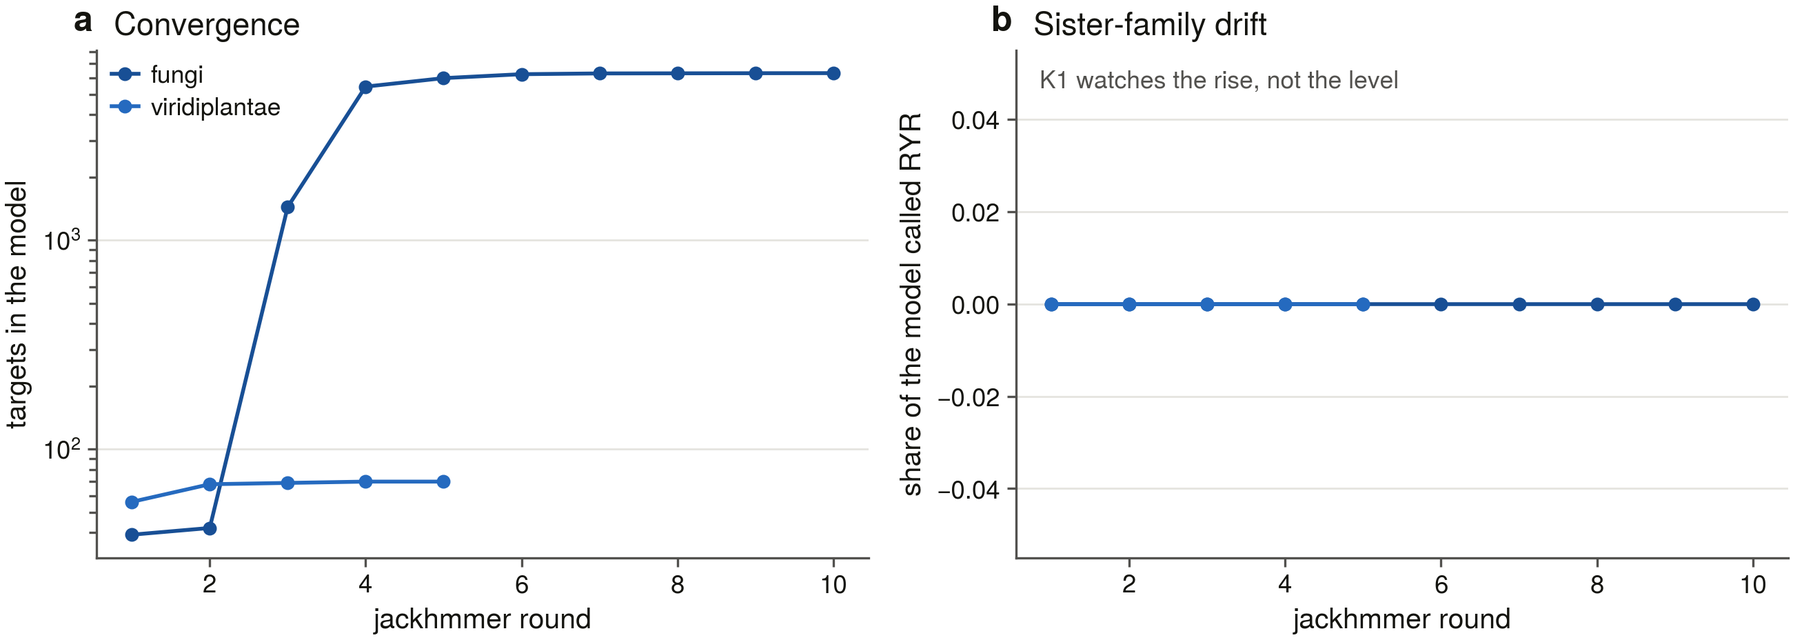
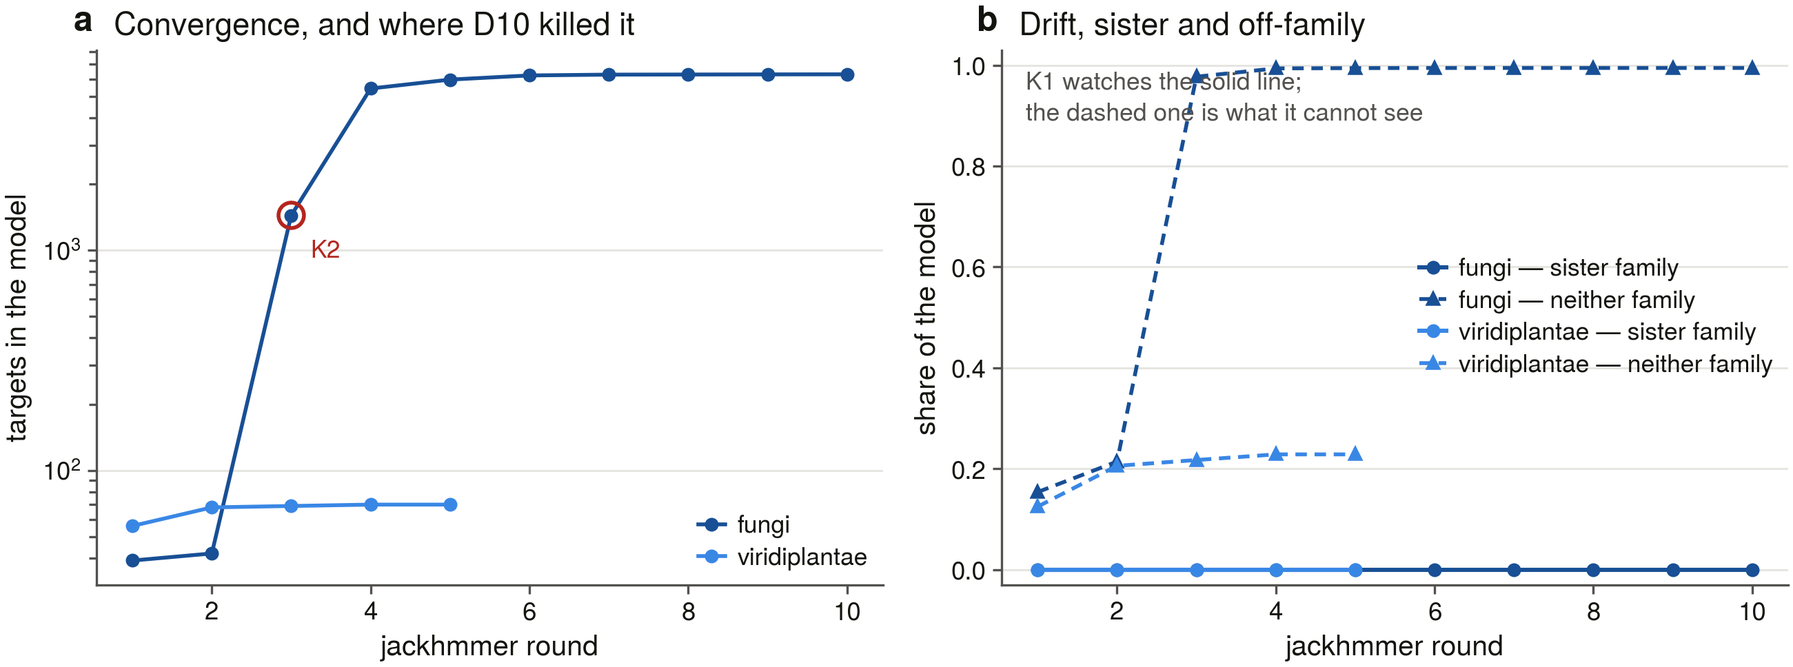
S20: write-ups, and the jackhmmer figure showing the drift K1 cannot see
FINDINGS, SESSION_LOG, README and the roadmap ledger updated with the sweep,
the controlled negatives, the 99-record chase and the fungal K2 kill.

The convergence figure now plots the off-family share beside the sister-family
share, because that contrast is the finding: the fungal model grows to 99 %
proteins of neither family while K1's trace sits at exactly zero. The kill
marker reads killed_at from the verdicts JSON — kill_rule is a run-level field
repeated on every row, so reading it per row marked round 1 for a run killed
at round 3.

Claude-Session: https://claude.ai/code/session_01A42atr4ykGLcxZTWwxVycQ

diff --git a/scripts/s20_figures.py b/scripts/s20_figures.py
@@ -37,7 +37,9 @@ matplotlib.use("Agg")
 import matplotlib.pyplot as plt  # noqa: E402
 
 import figstyle as fs  # noqa: E402
-from scripts.s20_lib import CENSUS_V5_DIR, FIG_DIR, S20_DIR, log, read_tsv  # noqa: E402
+from scripts.s20_lib import (  # noqa: E402
+    CENSUS_V5_DIR, FIG_DIR, S20_DIR, log, read_json, read_tsv,
+)
 from scripts.s20_verdicts import CONTAMINANT_PIDENT, OUTLIER_PIDENT  # noqa: E402
 from scripts.s3_assign import MIN_SCORE, REL_MARGIN  # noqa: E402
 
@@ -255,38 +257,76 @@ def plant_fungal_chase(stem: Path) -> None:
 
 # ----------------------------------------------------- 4. jackhmmer per group
 def jackhmmer_s20(stem: Path) -> None:
+    """Per-group convergence beside the drift K1 watches — and the drift it
+    does not.
+
+    Panel b plots the sister-family share (what K1 evaluates) *and* the
+    off-family share on the same axes, because that contrast is the finding.
+    S3 recorded it as D10b: off-family accretion dilutes the sister share
+    instead of raising it, so a model can grow thirty-fold into proteins of
+    neither family with K1 reading a flat zero throughout. A panel showing
+    only the sister trace would be a flat line at 0 and would look like a
+    clean run.
+    """
     rows = _rows("jackhmmer_convergence_s20.tsv")
     if not rows:
         raise SystemExit("no jackhmmer_convergence_s20.tsv — "
                          "run s20_jackhmmer.py")
     groups = sorted({r["group"] for r in rows})
-    fig, axes = plt.subplots(1, 2, figsize=(fs.W_FULL, 2.5))
-    shades = [fs.BLUES[-1], fs.BLUES[-2], fs.BLUES[-3], fs.BLUES[-4],
-              fs.BLUES[-5]]
+    verdicts = ((read_json(S20_DIR / "jackhmmer_verdicts_s20.json") or {})
+                .get("verdicts", {}))
+    fig, axes = plt.subplots(1, 2, figsize=(fs.W_FULL, 2.6))
+    shades = [fs.BLUES[-1], fs.BLUES[-3], fs.BLUES[-5], fs.MUTED]
     for i, g in enumerate(groups):
         sub = sorted((r for r in rows if r["group"] == g),
                      key=lambda r: int(r["round"]))
         xs = [int(r["round"]) for r in sub]
-        axes[0].plot(xs, [int(r["n_included"] or 0) for r in sub],
-                     marker="o", ms=2.6, lw=1.0,
-                     color=shades[i % len(shades)], label=g)
+        colour = shades[i % len(shades)]
+        n_inc = [int(r["n_included"] or 0) for r in sub]
+        axes[0].plot(xs, n_inc, marker="o", ms=2.6, lw=1.0,
+                     color=colour, label=g)
+        # Mark the round the rule actually fired on. `kill_rule` in the
+        # convergence table is a run-level field repeated on every row, so
+        # reading it per row would mark round 1 for a run killed at round 3;
+        # `killed_at` is the round, and it lives in the verdicts JSON.
+        v = verdicts.get(g, {})
+        at = v.get("killed_at")
+        if at:
+            here = [r for r in sub if int(r["round"]) == int(at)]
+            if here:
+                y = int(here[0]["n_included"] or 0)
+                axes[0].scatter([at], [y], s=44, facecolors="none",
+                                edgecolors=fs.STATUS["absent"], linewidths=1.0,
+                                zorder=5)
+                axes[0].annotate(v.get("rule", ""), (at, y),
+                                 textcoords="offset points", xytext=(5, -11),
+                                 fontsize=fs.FS_NOTE,
+                                 color=fs.STATUS["absent"])
         axes[1].plot(xs, [float(r["sister_frac"] or 0) for r in sub],
-                     marker="o", ms=2.6, lw=1.0,
-                     color=shades[i % len(shades)], label=g)
+                     marker="o", ms=2.6, lw=1.1, color=colour,
+                     label=f"{g} — sister family")
+        off = [int(r["n_offfamily"] or 0) / max(int(r["n_included"] or 1), 1)
+               for r in sub]
+        axes[1].plot(xs, off, marker="^", ms=2.6, lw=1.0, ls=(0, (3, 2)),
+                     color=colour, label=f"{g} — neither family")
+
     axes[0].set_yscale("log")
     axes[0].set_xlabel("jackhmmer round", fontsize=fs.FS_LABEL)
     axes[0].set_ylabel("targets in the model", fontsize=fs.FS_LABEL)
-    axes[0].legend(fontsize=fs.FS_NOTE, frameon=False)
+    axes[0].legend(fontsize=fs.FS_NOTE, frameon=False, loc="lower right")
     fs.despine(axes[0]); fs.hgrid(axes[0])
-    fs.panel(axes[0], "a", "Convergence")
+    fs.panel(axes[0], "a", "Convergence, and where D10 killed it")
 
+    axes[1].set_ylim(-0.03, 1.03)
     axes[1].set_xlabel("jackhmmer round", fontsize=fs.FS_LABEL)
-    axes[1].set_ylabel("share of the model called RYR", fontsize=fs.FS_LABEL)
-    axes[1].text(0.03, 0.96, "K1 watches the rise, not the level",
-                 transform=axes[1].transAxes, fontsize=fs.FS_NOTE,
-                 va="top", color=fs.MUTED)
+    axes[1].set_ylabel("share of the model", fontsize=fs.FS_LABEL)
+    axes[1].legend(fontsize=fs.FS_NOTE, frameon=False, loc="center right")
+    axes[1].text(0.03, 0.96, "K1 watches the solid line;\nthe dashed one is "
+                 "what it cannot see", transform=axes[1].transAxes,
+                 fontsize=fs.FS_NOTE, va="top", color=fs.MUTED,
+                 linespacing=1.4)
     fs.despine(axes[1]); fs.hgrid(axes[1])
-    fs.panel(axes[1], "b", "Sister-family drift")
+    fs.panel(axes[1], "b", "Drift, sister and off-family")
     fig.tight_layout()
     fs.save(fig, stem)
     plt.close(fig)

diff --git a/PUBLICATION_ROADMAP.md b/PUBLICATION_ROADMAP.md
@@ -165,7 +165,7 @@ Full step-by-step briefs: `docs/session_briefs.md`.
 | S4 | Genome scope: declared assembly manifest (the denominator) + download tooling | S1 | completed 2026-09-04 | **309 genomes: 161 vertebrate orders ∪ 169 margin species, 552.5 Gbp (≈553 GB FASTA, ≈166 GB as zip, against 1,434 GB free).** Scope confirmed with the user: the *full* margin union, so the bird question is settled per species rather than by sample. **The margin species are derived from the committed census tables, not hand-listed** (unlike the PIEZO port) — four rules with stated thresholds in `s4_manifest_lib.derive_margins`: `zero_hit_proteome` 15, `missing_paralog` (<3 paralogs) 101, `fragment_only` (longest record < `family.MIN_LENGTH_AA` = 2,000 aa) 100, `anchor` 5; 61 genomes carry more than one reason and 11 carry three. All 169 resolved to an assembly — **no margin species is excluded for want of a genome**. **The margin is a bird problem**: 130 of 169 margin species are Aves, against 21 Actinopteri and 10 Mammalia, which is S3's annotation-depth result reappearing as a scope requirement. **D9 is live in the denominator**: 168 RefSeq / 141 GenBank, and **33 genomes carry no gene set at all**, so no annotation claim may be quoted for them. Three assemblies exceed 10 Gbp (*Protopterus annectens* 40.1, *Lissotriton helveticus* 23.2, *Bombina bombina* 10.0) and dominate both download and S5 runtime. 67 reference species have no NCBI order rank (65 percomorphs + 2 sharks) and cannot represent one; the margin rules still reach them. `fetch_genomes.py` tested end to end on 3 small genomes — md5-verified against NCBI's own `md5sum.txt`, `.done` resume, fetch → search → purge, and a failing search correctly keeping its genome. **Two bugs found by testing**: margin species were matched by a last-wins taxid lookup while order reps used the rank function, putting one species in twice under two accessions; and `--verify` skipped any checksummed file the install does not keep, so a deleted `.fna` would have passed — the kept checksums are now rewritten to exactly the installed files and a missing one is a hard failure (proved by deleting a file and watching it fail, exit 1). → `results/genome_manifest_notes.md` |
 | S5a | **Genomic sweep: bait panel, calibrated pipeline, pilot** — the instrument for S5, measured rather than ported | S4 | completed 2026-09-04 | **38 baits (30 ITPR + 8 RyR control), 121,294 residues, derived from census v3 by seven enforced rules; pipeline piloted on 6 genomes, 24 cells, 43 loci, 0 control failures.** Three calibrations that a port could not supply. **(1) miniprot's `-G`.** A too-small max-intron does not lose a gene, it *splits* one, and a split ITPR reads out of the ledger as `fragment` — so `-G` is a threshold on the call. Measured across an 11-species Ensembl panel: **no ITPR gene has an intron over the 200 kb default** (widest 152,216 bp, human ITPR1) while the RyR control exceeds it twice (RYR2 227,927 bp). The rule scales from the widest measured intron rather than from the intron-per-Gbp ratio, which is largest in the *smallest* genomes and would have asked for a 7.4 Mbp `-G` on the lungfish. **(2) The unlabelled baits were competing as a fourth paralog.** Rescue attribution ranked `vertebrate_basal` (the gar/chimaera/lamprey seeds — evidence that a region is an ITPR, not a hypothesis about *which*) against the real paralogs: in *Todus* an ITPR1 trace at a true 0.235 margin over ITPR2 was reported at 0.027. Three cells moved from `tblastn_trace_ambiguous` to `tblastn_trace` once fixed. **(3) `ATTRIBUTION_REL_MARGIN` does not transfer (D25).** The PIEZO port's 0.333 comes from a family 40–50 % identical where these are 61–68 %; at complete loci whose paralog identity the annotation independently establishes, **7 of 9 sit below it** (range 0.225–0.347, median 0.281). A complete locus is an upper bound on a rescue fragment, so under 0.333 no absence claim could ever be attributed → **0.22**, with the limitation stated. **D14 was never in doubt at genome scale: at all 43 loci only one family's baits aligned at all** — sharper than the protein level, where S1 had all six RyR decoys promoted at 45. **The RyR control paid immediately**: in *Todus mexicanus* (the `zero_hit_proteome` bird) it found one RyR locus where a bird has three, and unannotated — what is missing there is contiguity, not genes. **D4's contiguity bar, set at the median measured ITPR span (142,212 bp) rather than an invented number: 120/309 manifest genomes fail it — 66 % of birds against 11 % of fish, and 68 % of margin species against 12 % of order reps.** The margin set was chosen for what its *proteomes* lack and turns out to be very largely the same genomes whose assemblies cannot hold the gene; the two signals are confounded. **And the paralog recovered from a fragmented assembly is systematically the short one** — below the bar ITPR3 (82 kb median span) is found 2/3 while ITPR1 (186 kb) and ITPR2 (231 kb) are 0/3, so S0's 6.5× span asymmetry returns as a detection bias pointing the same way as the loss signal *(pilot of 6 — direction and mechanism, pending: S5b at 309)*. Screen validated by its own negative controls on every build. → `results/genome_ledger/report.md` |
 | S5b | **The full 309-genome sweep** → per-genome ledger (found / lost / assembly-gap) + novel gene models → census v4 | S5a | completed 2026-09-05 | **309/309 genomes swept, 0 failures, 1,236 cells, 2,144 loci; census v4 = 17,097 records.** **The RyR positive control fired in every one of the 309**, so no genome is excluded on control grounds. **D14 held absolutely: across all 2,144 loci only one family's baits aligned at all** — the ITPR and RyR panels never once contested a locus. That is a sharper separation than the protein level affords (S1 had all six RyR decoys promoted at 45 before the sister test existed) and it is a result in its own right: the family ambiguity is a property of searching protein fragments, not of the two families. **Only 4 cells are `absent`, and all four are cyclostome**: *Petromyzon marinus* and *Myxine glutinosa* each carry ITPR1 and lack ITPR2/ITPR3. Both are above the contiguity bar with a firing control, so the call survives both of D4's gates — but the panel has **no labelled ITPR2 or ITPR3 bait for cyclostomes at all** (4 of its 6 unfilled slots), so this is one findable ITPR in each, consistent with the vertebrate trio arising at 2R after the cyclostome split, and S7 is what turns it into a statement about 2R. **D4's bar is the headline caveat: 120/309 genomes cannot carry the gene on one contig — 66 % of Aves against 11 % of Actinopteri, 68 % of margin species against 12 % of order reps.** Recovery is **98–99 % above the bar and 57–70 % below it**. **S5a's span-bias hypothesis is confirmed at scale** (it wobbled 15 → 8 → 12.5 points during the sweep and settled at **13**): below the bar ITPR3 70 %, ITPR1 61 %, ITPR2 57 %, and ITPR3 is the shortest gene — so the detection bias runs the same direction as the loss signal the margin species were chosen for. **The attribution margin is now validated on the evidence it acts on**: 53 rescue fragments whose paralog an assembly's own annotation names agree with the attribution **53/53**, over margins 0.227–0.445. **0 fall below the 0.22 in force; 31 of 53 would have fallen below the inherited 0.333** and been reported ambiguous. S5a's recalibration was right and the floor sits 0.007 below the observed minimum. **Annotation quality differs by paralog, and the control matters**: uncontrolled the gap looked like ITPR3 54 % vs ITPR2 14 %, which was assembly quality; holding contiguity constant across 487 loci it is **ITPR3 88 % correctly named vs ITPR1 65 %** — a 23-point gap between genes of near-identical protein length in the same genomes. **Census v4 adds 1,058 gene models from 224 genomes**: **318 ITPR models exist only as DNA** and **167 more sit inside an annotated gene carrying no family name**, unreachable by any name-based search. 3 loci are claimed by a cell other than the one their annotation names (1 with a coherent sibling locus) — supplied to S18, not adjudicated. **Two instrument fixes found by the run.** `MIN_LOCUS_IDENTITY` (0.40) — in the two >20 Gbp genomes a 2 Mbp `-G` chained shared-module hits at 23–34 % identity into apparent loci, inflating *Lissotriton* ITPR3 to 10 loci; measured, the 571 annotation-confirmed loci have a **minimum identity of 0.759** and the junk sits below 0.35, so any floor in 0.35–0.50 drops the same 22 and zero real loci. Status was never wrong (the best locus always won) but copy number was. And **miniprot output is now written atomically**: the driver reuses any non-empty GFF, so an interrupted run left a truncated file the next run accepted as complete — undetectable afterwards. Audited: 0 genomes affected. **The budget was wrong in S5a and is corrected**: the sweep is download-bound (~5.5 MB/s aggregate, not scaling with shard count), 164 GB over ~19 h wall against ~2.5 h of compute; S5a projected 3.4 h from compute alone. miniprot is *faster* than budgeted (15 s/Gbp, not 36). Both giants completed on the chunked path (25 and 14 chunks, 1.8 h and 2.5 h). → `results/genome_ledger/report.md` |
-| S20 | **Non-vertebrate sweep** — the family's true range across eukaryotic reference proteomes, and whether the land-plant / dikarya absence is a genome fact or a database fact | S3 | in_progress | **6,928 reference proteomes, 63,144,898 proteins, 24.93 G residues swept with S3's own two profiles — 662 carry an ITPR call.** The four eukaryote groups partition Eukaryota with S3's `vertebrata`, so the two sweeps' denominators add; archaea taken whole (634), bacteria genus-stratified (3,537 of 17,981) under a rule chosen to be generous to the hypothesis it tests — one proteome per genus, the *largest*, because a bigger proteome is a more sensitive place to find a homolog. 23 listed proteomes are unpublished in the release FTP tree and are recorded as exclusions rather than aborting the fetch. **One search, two sensitivities**: every `hmmsearch` ran at `-E 10` and the primary E ≤ 1e-5 call is a filter on the same domtblout, so the relaxed set is a superset of the strict one from the same search rather than a second experiment. **Both of S2's headline absences are confirmed with the seeding filter removed: Streptophyta 0/384 (16.3 M proteins) against 15/48 Chlorophyta, and Dikarya 0/1,353 against 28/1,527 fungal proteomes.** Archaea 0/634, bacteria 0/3,537. **But the fungal losses are patchy, not basal** — Glomeromycota 0/27, Mortierellomycota 0/18, Kickxellomycota 0/35 and Microsporidia 0/29 are empty too, so this is repeated independent loss rather than one event. **Every negative carries a positive control inside the same search** (brief step 5): at E ≤ 10 with the four family Pfam models, PF08709 — the IP₃-binding core that names the family — returns **0** substantial matches in land plants against **26** in Chlorophyta, and **0** in Dikarya against **16** in Mucoromycota, while PF02815 (MIR, which every eukaryote carries on other proteins) returns **633** and **4,376** in those same genomes. The instrument demonstrably works there and finds everything except the receptor. **All 99 plant and fungal ITPR records were chased individually** (brief step 3), pooled from both instruments so the UniProtKB entries outside reference proteomes are not quietly dropped: **47 `real_gene`, 52 `fragment`, 0 contaminants, 0 without genome backing**. The contamination test had full power — every record has a cross-kingdom blastp hit, at **19.9–45.8 % identity, median 24.1 %**, nowhere near the 95 % call. **D14 outside the vertebrates: 0 of 704** targets scored by both profiles above the bit floor fall inside the no-call band. **And a trap caught before it became a result**: the sweep reports 142 RYR calls in fungi, algae and protists, all 500–2,000 aa proteins spanning **4–9 %** of a 4,930-state model — read as gene counts they would invent ryanodine receptors across half the eukaryotic tree, so every call is now reported with its model coverage (63 % of ITPR calls are architecture-level against 1 % of RYR ones). The two that *are* architecture-level are genuine and matter: *Salpingoeca rosetta* (choanoflagellate, 5,340 aa, not a seed) and *Capsaspora owczarzaki* (filasterean, 6,625 aa, a `ryr.hmm` seed and flagged circular) carry both families at full length, so the ITPR/RyR duplication predates Metazoa. **jackhmmer (brief step 4), viridiplantae: converged in 5 rounds, D10 clean, zero sister content in every round — and all 70 targets in the converged model are Chlorophyta, including all 6 that only iteration found**, so the land-plant absence is not a sensitivity artefact. **Census v5: 17,882 records** (+785 from this sweep), 8,809 ITPR across 1,402 taxa, 0 conflicts, lineage on every row including S5b's 488 genomic models joined to S4's manifest. **Three silent bugs fixed**: the presence table was overwritten with a fraction of its own denominator by per-group runs; hits were attributed by taxid where 48 taxids carry two reference proteomes each (now measured by a header pass over each proteome file); and **UniProt's `tax_id:` search is hierarchical**, so a 100-term batch matched more than 100 records, the page capped, and requested taxids came back as blank rows — *Arabidopsis* and *Chlamydomonas* among them — now the exact `taxonIds/` endpoint with the batch below its measured 25-row page cap. → `results/s20_sweep/report.md` |
+| S20 | **Non-vertebrate sweep** — the family's true range across eukaryotic reference proteomes, and whether the land-plant / dikarya absence is a genome fact or a database fact | S3 | in_progress | **6,928 reference proteomes, 63,144,898 proteins, 24.93 G residues swept with S3's own two profiles — 662 carry an ITPR call.** The four eukaryote groups partition Eukaryota with S3's `vertebrata`, so the two sweeps' denominators add; archaea taken whole (634), bacteria genus-stratified (3,537 of 17,981) under a rule chosen to be generous to the hypothesis it tests — one proteome per genus, the *largest*, because a bigger proteome is a more sensitive place to find a homolog. 23 listed proteomes are unpublished in the release FTP tree and are recorded as exclusions rather than aborting the fetch. **One search, two sensitivities**: every `hmmsearch` ran at `-E 10` and the primary E ≤ 1e-5 call is a filter on the same domtblout, so the relaxed set is a superset of the strict one from the same search rather than a second experiment. **Both of S2's headline absences are confirmed with the seeding filter removed: Streptophyta 0/384 (16.3 M proteins) against 15/48 Chlorophyta, and Dikarya 0/1,353 against 28/1,527 fungal proteomes.** Archaea 0/634, bacteria 0/3,537. **But the fungal losses are patchy, not basal** — Glomeromycota 0/27, Mortierellomycota 0/18, Kickxellomycota 0/35 and Microsporidia 0/29 are empty too, so this is repeated independent loss rather than one event. **Every negative carries a positive control inside the same search** (brief step 5): at E ≤ 10 with the four family Pfam models, PF08709 — the IP₃-binding core that names the family — returns **0** substantial matches in land plants against **26** in Chlorophyta, and **0** in Dikarya against **16** in Mucoromycota, while PF02815 (MIR, which every eukaryote carries on other proteins) returns **633** and **4,376** in those same genomes. The instrument demonstrably works there and finds everything except the receptor. **All 99 plant and fungal ITPR records were chased individually** (brief step 3), pooled from both instruments so the UniProtKB entries outside reference proteomes are not quietly dropped: **47 `real_gene`, 52 `fragment`, 0 contaminants, 0 without genome backing**. The contamination test had full power — every record has a cross-kingdom blastp hit, at **19.9–45.8 % identity, median 24.1 %**, nowhere near the 95 % call. **D14 outside the vertebrates: 0 of 704** targets scored by both profiles above the bit floor fall inside the no-call band. **And a trap caught before it became a result**: the sweep reports 142 RYR calls in fungi, algae and protists, all 500–2,000 aa proteins spanning **4–9 %** of a 4,930-state model — read as gene counts they would invent ryanodine receptors across half the eukaryotic tree, so every call is now reported with its model coverage (63 % of ITPR calls are architecture-level against 1 % of RYR ones). The two that *are* architecture-level are genuine and matter: *Salpingoeca rosetta* (choanoflagellate, 5,340 aa, not a seed) and *Capsaspora owczarzaki* (filasterean, 6,625 aa, a `ryr.hmm` seed and flagged circular) carry both families at full length, so the ITPR/RyR duplication predates Metazoa. **jackhmmer (brief step 4), viridiplantae: converged in 5 rounds, D10 clean, zero sister content in every round — and all 70 targets in the converged model are Chlorophyta, including all 6 that only iteration found**, so the land-plant absence is not a sensitivity artefact. **Fungi ran the ceiling and K2 fired at round 3**: the included set grew **34.3×** (42 → 1,442, reaching 6,302 by round 10) while the family content went 33 → 35 — the growth is entirely off-family, so **K1 read 0.000 in every round**. That is S3's **D10b** in a new setting, caught this time by K2 rather than by the round ceiling. The accepted model (rounds 1–2) reaches Ascomycota exactly twice and both records are dolichyl-phosphate-mannose mannosyltransferases — the MIR-domain sharer S1's decoy panel was built around, not a receptor, so the Dikarya absence survives its only loophole. Iteration-only targets are **named** in `jackhmmer_iteration_only_s20.tsv` rather than counted, and the report calls them known decoys only when their own protein names say so. **Census v5: 17,882 records** (+785 from this sweep), 8,809 ITPR across 1,402 taxa, 0 conflicts, lineage on every row including S5b's 488 genomic models joined to S4's manifest. **Three silent bugs fixed**: the presence table was overwritten with a fraction of its own denominator by per-group runs; hits were attributed by taxid where 48 taxids carry two reference proteomes each (now measured by a header pass over each proteome file); and **UniProt's `tax_id:` search is hierarchical**, so a 100-term batch matched more than 100 records, the page capped, and requested taxids came back as blank rows — *Arabidopsis* and *Chlamydomonas* among them — now the exact `taxonIds/` endpoint with the batch below its measured 25-row page cap. → `results/s20_sweep/report.md` |
 | S23 | **Targeted invertebrate + protist + plant/fungal genome sweep** (triggered by S20): the negative claims at genome level, and copy number outside vertebrates | S20 | pending | |
 | S6 | Alignment upgrade: MAFFT L-INS-i + trimAl on census representatives per clade × kingdom, RyR outgroup included | S2, S3, S5b, S20 | pending | |
 | S7 | ML phylogeny: IQ-TREE 2 + ModelFinder + 1000 UFBoot, rooted on RyR; resolve which two of ITPR1/2/3 are sisters (AU test on the three rooted topologies) | S6, S23 | pending | |

diff --git a/FINDINGS.md b/FINDINGS.md
@@ -675,6 +675,29 @@ Either that lineage has genuinely expanded the family, or its assembly is
 duplicated. A proteome cannot tell those apart *(pending: S23, the
 assembly-level search.)*
 
+**Searching harder does not find them either.** For each group the search was
+run again the hard way — starting from a single receptor native to that group
+and letting the model rebuild itself from whatever it found, round after round,
+until it stopped changing. In the green algae it settled after five rounds on
+seventy proteins, **every one of them a green alga**, including the six that
+only this deeper search could reach. In the fungi it reached the yeasts and
+moulds exactly twice in ten rounds, and both times what it reached was a
+mannosyltransferase — a protein that shares one module with the receptor and
+was already in this project's list of known look-alikes. So the absences are
+not an artefact of not looking hard enough. They are absences.
+
+**And the deeper search failed in an instructive way.** The fungal run did not
+settle at all: at round three the model grew thirty-four-fold, from 42 proteins
+to 1,442, and by round ten it rested on 6,302 — while the number of actual
+receptors in it went from 33 to 35. It had stopped being a model of the family
+and become a model of fungal proteins in general. The rule that watches for
+this project's expected failure — drifting into the sister family — saw
+nothing at all, because the flood was of proteins belonging to *neither*
+family, which dilutes the sister share rather than raising it. A second rule,
+watching for explosive growth, caught it. That is the same lesson S3 recorded
+from a different direction, and it is worth stating plainly: a model that has
+gone wrong does not always go wrong in the way you are watching for.
+
 **A caution about our own counting.** The sweep reports 142 "ryanodine
 receptor" hits in fungi, green algae and protists, where no ryanodine receptor
 is thought to exist. They are proteins of a few hundred to two thousand

diff --git a/SESSION_LOG.md b/SESSION_LOG.md
@@ -1038,7 +1038,18 @@ architecture-level against 1 % of RYR calls.
   taxa, 0 conflicts, lineage columns on every row including S5b's 488 genomic
   gene models, joined to S4's manifest.
 
-**Next.** The three remaining jackhmmer runs (protista, fungi, metazoa) and
+- **jackhmmer, fungi: ran the ceiling, D10's K2 fired at round 3.** The
+  included set grew **34.3×**, 42 → 1,442, and by round 10 rested on 6,302 —
+  while the family content went 33 → 35. The growth is *entirely* off-family,
+  so **K1 read 0.000 in every round**: this is S3's D10b in a new setting,
+  caught by K2 rather than by the round ceiling. The accepted model (rounds
+  1–2) reaches Ascomycota exactly twice, and both records are
+  dolichyl-phosphate-mannose mannosyltransferases — the MIR-domain sharer S1's
+  decoy panel was built around, not a receptor. Iteration-only targets are now
+  named in `jackhmmer_iteration_only_s20.tsv` rather than counted, and the
+  report only calls them known decoys when their own protein names say so.
+
+**Next.** The two remaining jackhmmer runs (protista, metazoa) and
 then S23, which S20 sharpens: the absences to take to genome level are
 Streptophyta, Dikarya, Glomeromycota/Mortierellomycota, Apicomplexa (0/60) and
 the *Cymbomonas* copy-number question.
